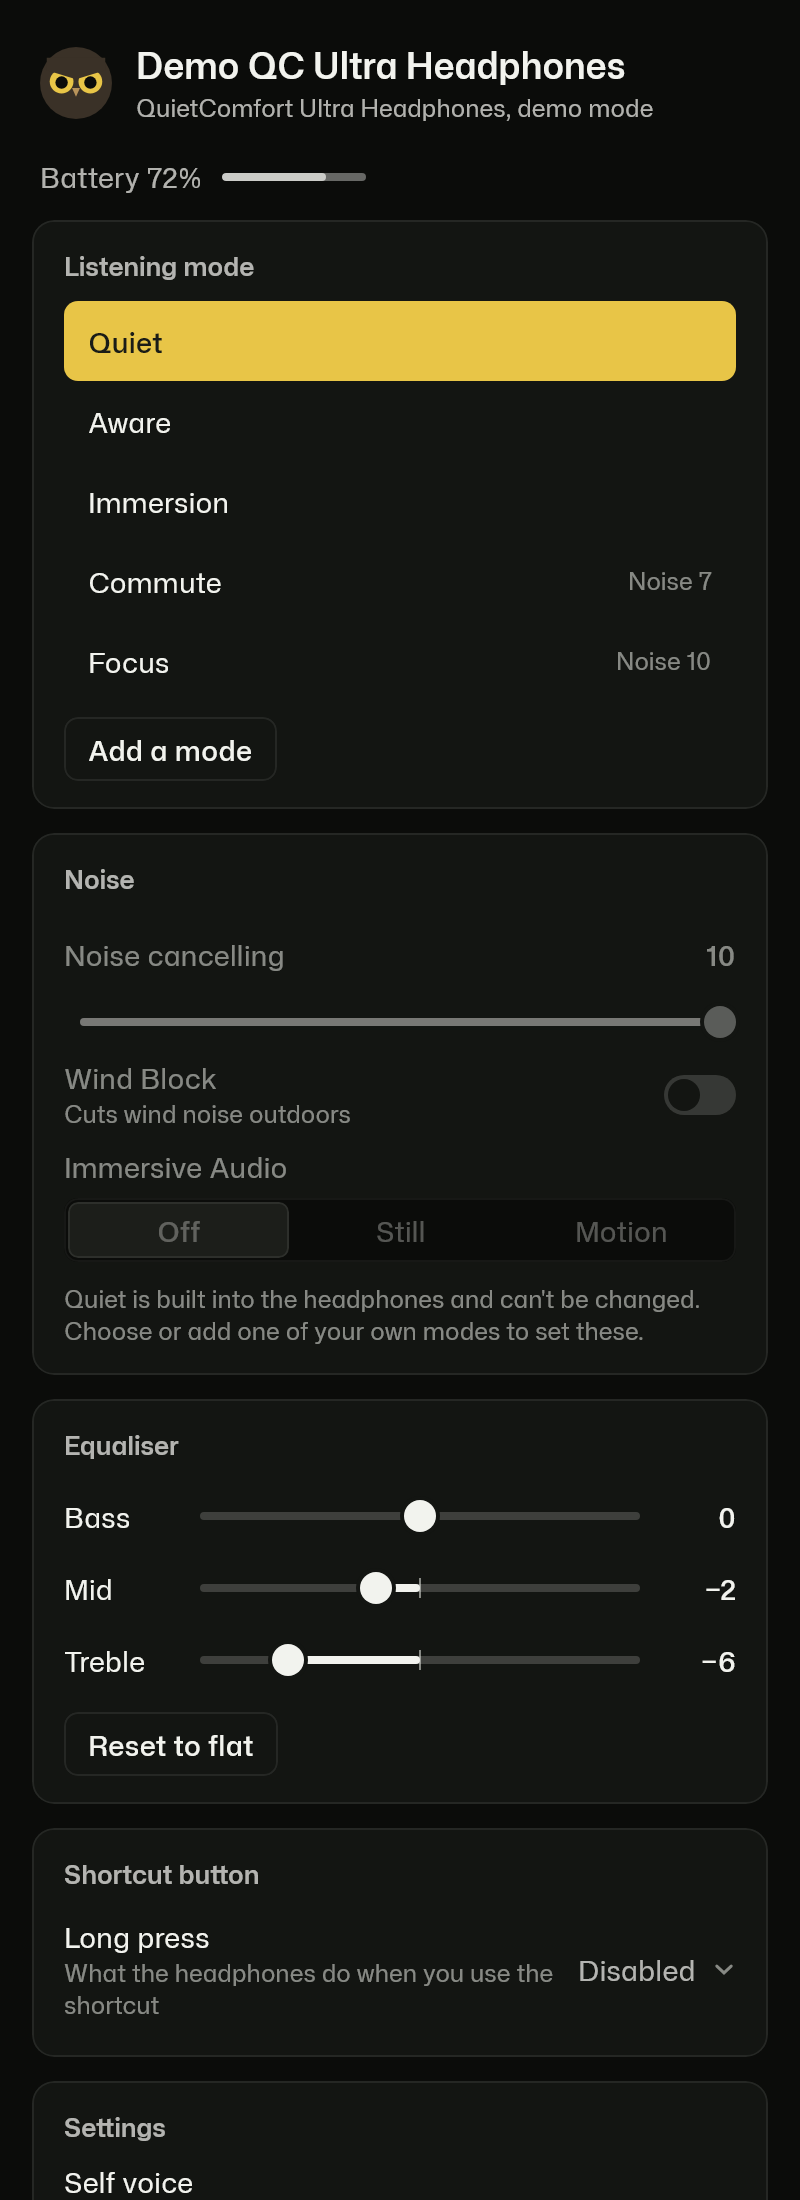
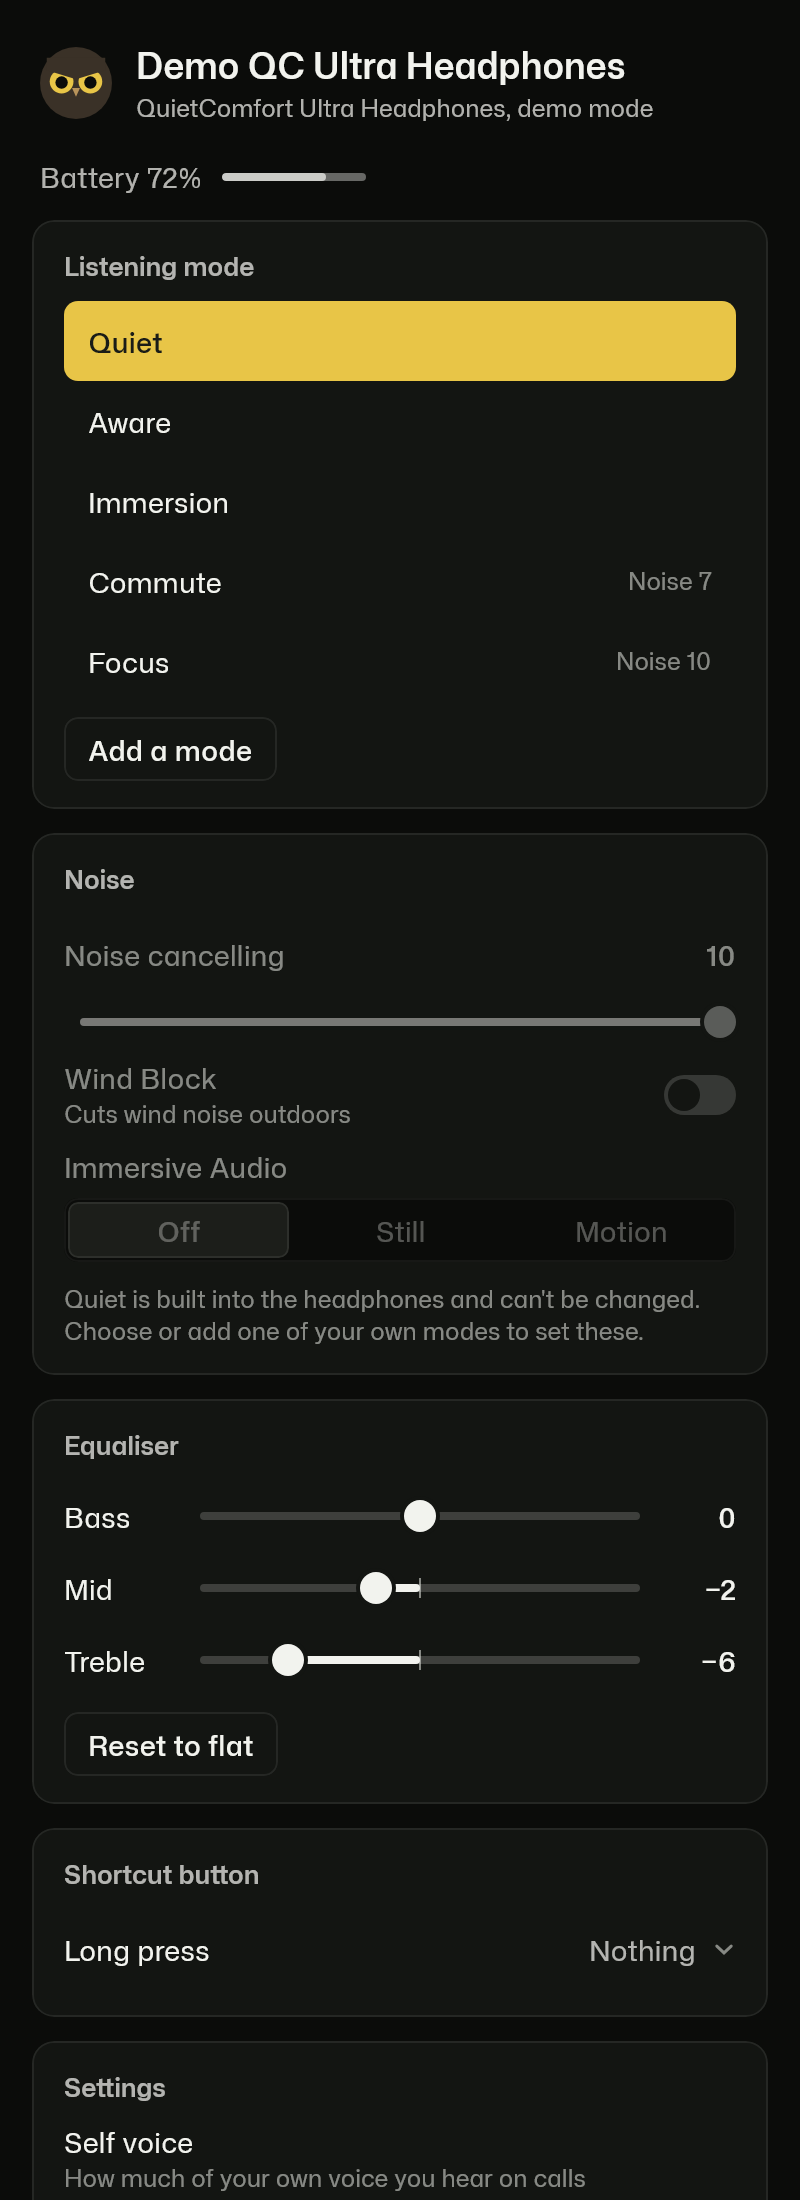
README: two claims the code doesn't support; screenshots from the current build
- "It changes the same settings as the Bose app ... and the rest": Ruru has no favourite modes,
  rename, voice prompt language or start-up mode, so the line now lists what it changes
- "the equaliser maths, shared by every app": no app uses core/dsp yet, and now it says so
- Both screenshots rendered again with the snapshot task; the old ones showed the shortcut row
  as it was before its wording changed

Changed region(s): [[0.0625, 0.8655, 0.75, 1.0], [0.7188, 0.8655, 0.875, 0.8964]]

diff --git a/README.md b/README.md
@@ -1,9 +1,9 @@
 # Ruru
 
 Ruru is a free, open-source app for Bose headphones on Windows, macOS, Linux, Android and iPhone.
-It changes the same settings as the Bose app: listening modes, noise cancelling, Wind Block,
-Immersive Audio, the equaliser, multipoint and the rest. There is no account, no cloud and no
-analytics, and the Android app has no internet permission at all.
+It changes listening modes, noise cancelling, Wind Block, Immersive Audio, the equaliser,
+multipoint and other everyday settings. There is no account, no cloud and no analytics, and the
+Android app has no internet permission at all.
 
 <p align="center">
   <img src="docs/screenshots/ruru-dark.png" width="46%" alt="Ruru in the dark theme: listening modes, noise and equaliser">
@@ -90,9 +90,9 @@ You need JDK 21.
 | Android | `./gradlew :app:android:assembleRelease` (Android SDK required) |
 | iPhone (on a Mac) | `./gradlew :app:shared:linkReleaseFrameworkIosArm64`, then `xcodegen` in `iosApp/` |
 
-The code is Kotlin Multiplatform with Compose Multiplatform. `core/` holds the Bose protocol, the
-session logic and the equaliser maths, shared by every app; `platform/` has one small Bluetooth
-connection per system; `app/` has the screens and the apps. `tools/probe` checks a headset from a
+The code is Kotlin Multiplatform with Compose Multiplatform. `core/` holds the Bose protocol and
+the session logic, shared by every app, and equaliser maths that no app uses yet; `platform/` has
+one small Bluetooth connection per system; `app/` has the screens and the apps. `tools/probe` checks a headset from a
 Windows PC (read-only by default).
 
 ## Credits
